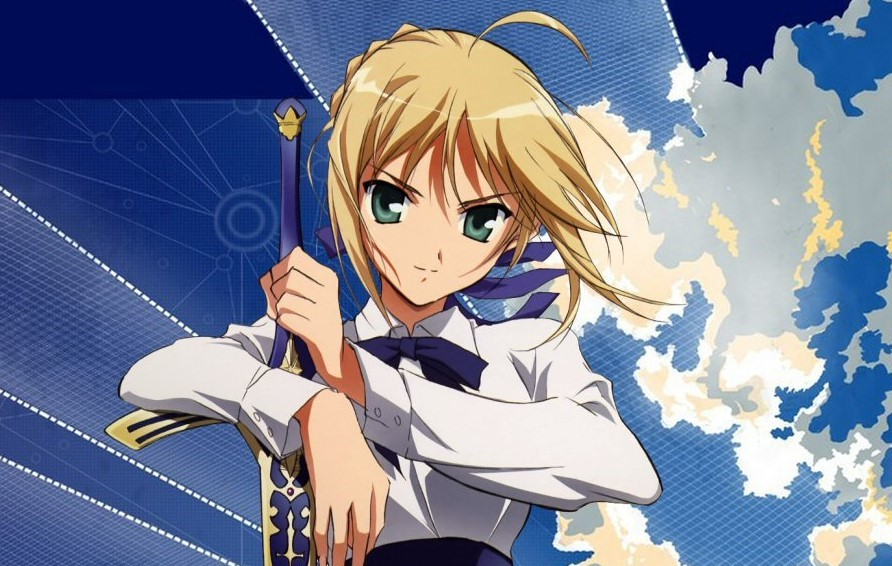
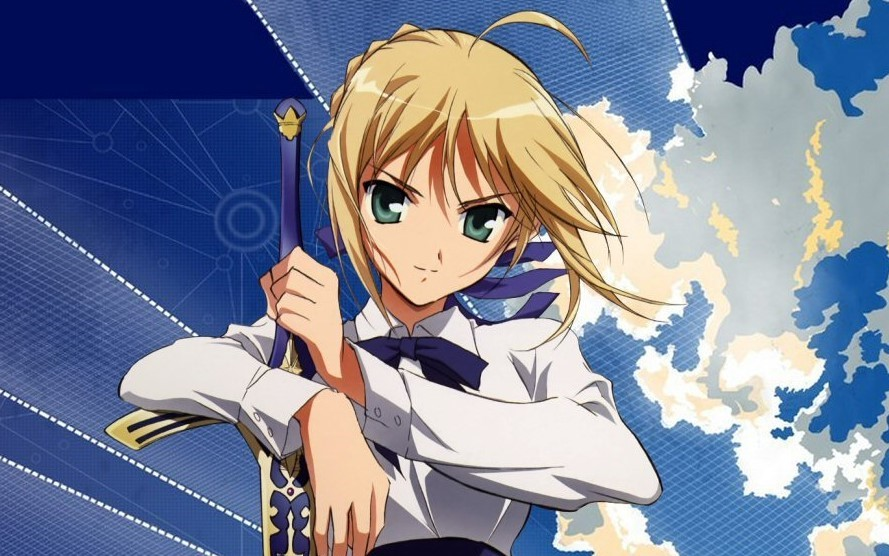
update works

diff --git a/hover/index.html b/hover/index.html
@@ -7,10 +7,10 @@
 	</head>
 	<body>
 		<div id="wrapper">
-			<img src="imgs/saber.jpg">
+			<img src="imgs/Saber.jpg">
 			<div class="wordBackground1">
 			</div>
-						<div class="wordBackground2">
+			<div class="wordBackground2">
 			</div>
 			<div class="word">
 				<span>今夜月色真美</span>
